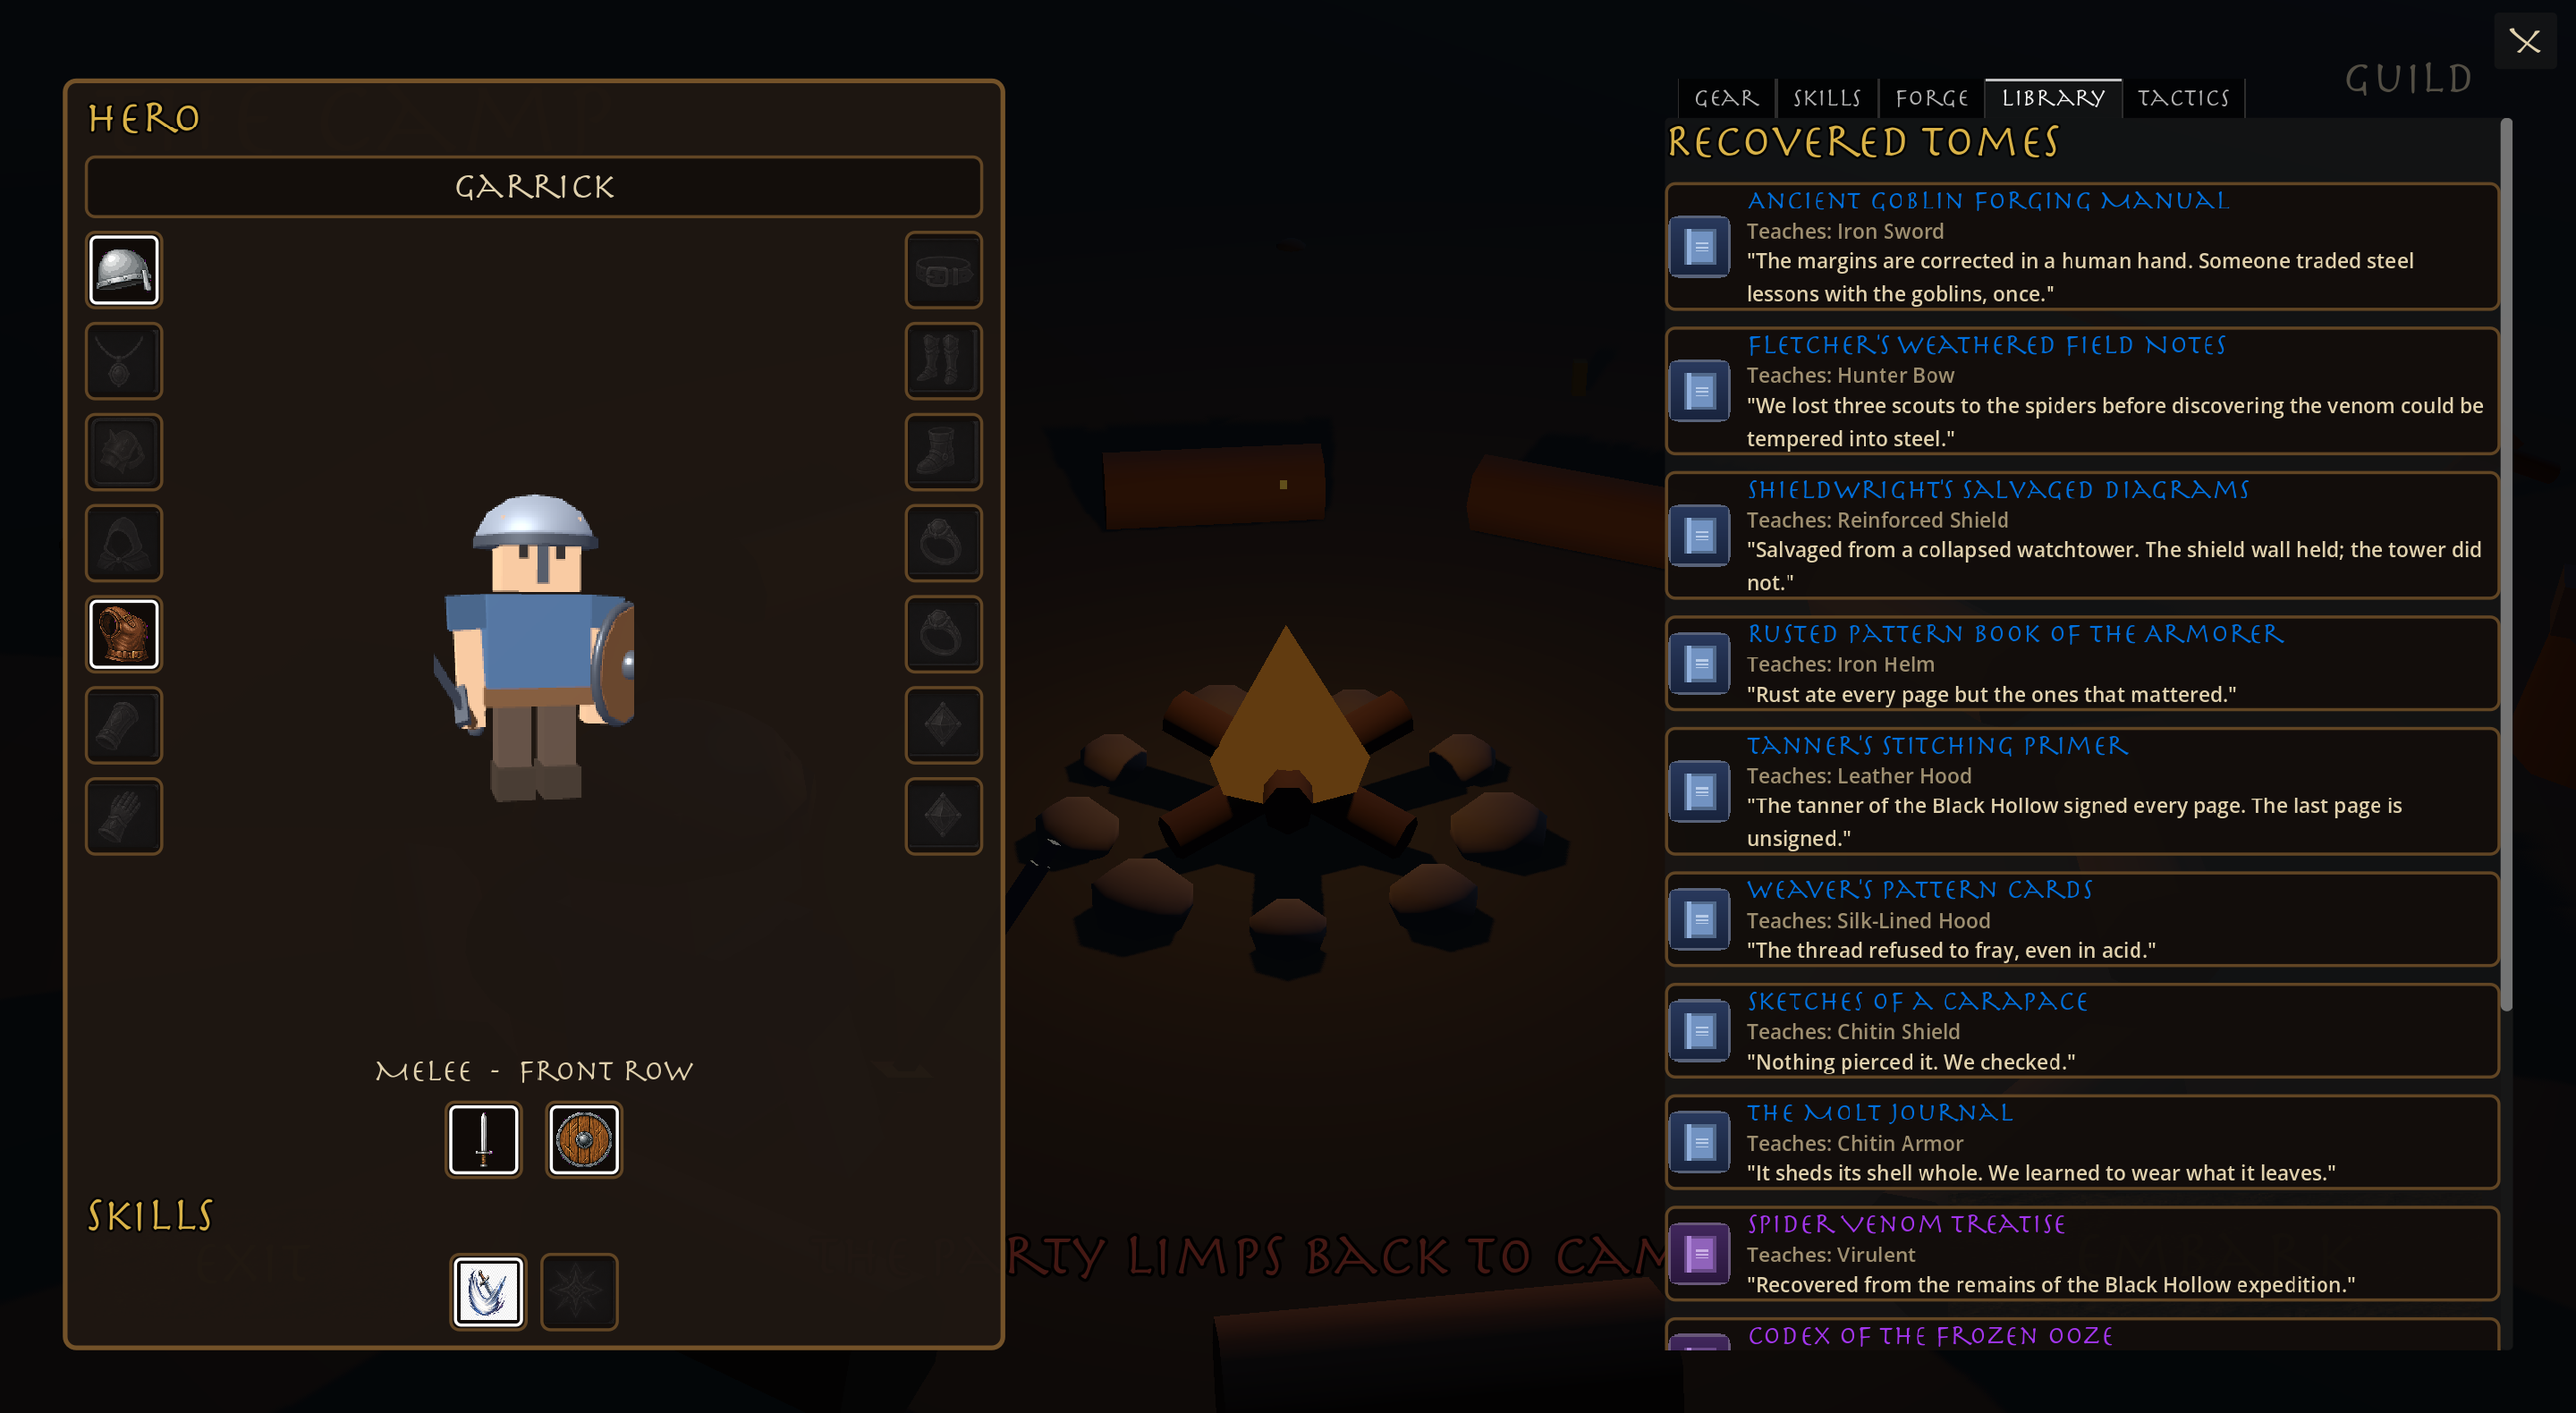
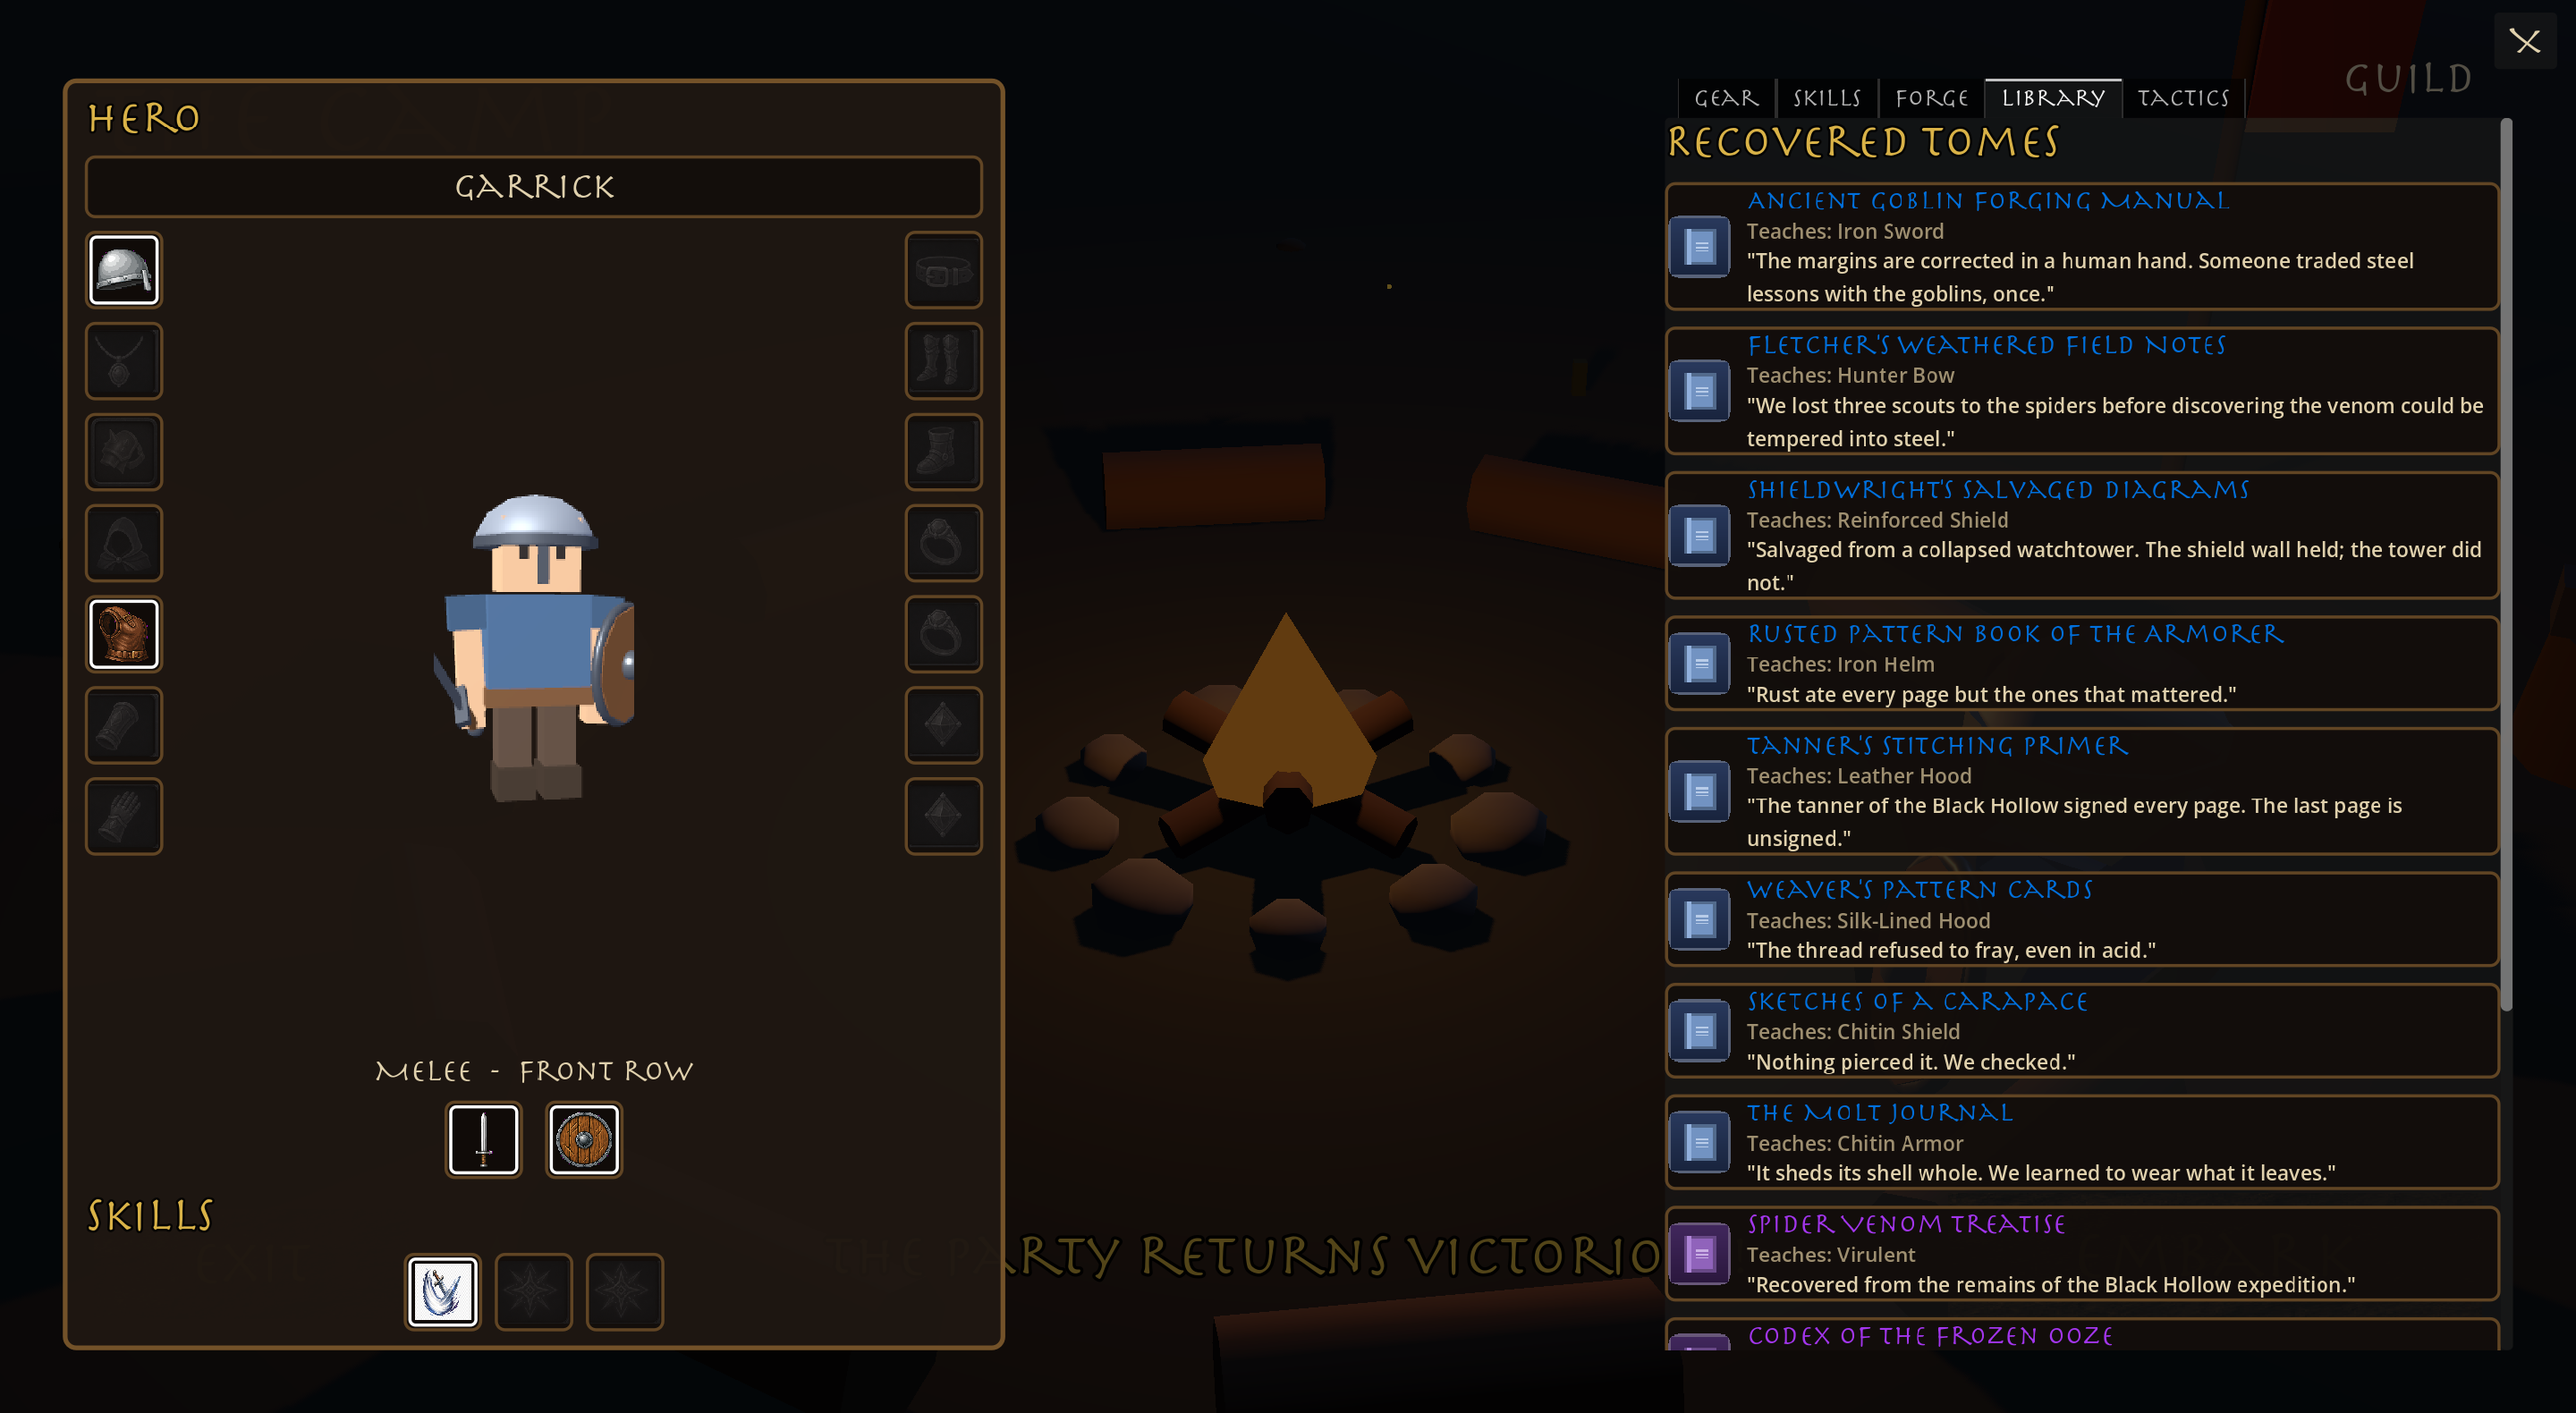
The Nest bites back; Renew and Whirlwind show themselves.
Playtest: a post-Darkwood duo with Virulent on both weapons one-shot
the Spider Nest. The nest now assumes what a player arriving there
actually has - a companion, an offensive affix, darkwood-tier gear:
enemies harder across the board (Broodmother 260/8/3), packs run one
body deeper (new per-dungeon pack_bonus), and the boss brings a
second spiderling. Clearing it should want nest recipes and the
Training Grounds slot.

The invisible skills were a real bug: the timeline patch for spin and
shockwave cues had silently missed (indentation mismatch), so
Whirlwind and Thunderclap played as plain swings. Fixed - and Renew
now shows its cast too: the healer raises hands and a soft green ring
blooms on the target (BUFF events carry their source now).

Forge overflow fixed: affix pickers size to their selection, Craft
buttons slim, material chips trim with ellipsis. Two tests stopped
depending on whatever save the machine carries.

diff --git a/CHANGELOG.md b/CHANGELOG.md
@@ -58,6 +58,10 @@ Notable changes per pull request. Newest first.
   rows with color-coded costs; the full bill with hunting grounds
   lives in the pinned selection tooltip.
 - Overlapping floating combat texts fan out into side lanes.
+- Renew visibly casts (healer raises hands, a soft green ring blooms
+  on the target); the Whirlwind spin and Thunderclap shockwave cues
+  actually fire (the timeline patch had silently missed); the Forge
+  no longer clips Craft buttons or the material shelf.
 - Nest loot band: item levels +10; rare unlocked from normals (4%);
   boss epic at 6%.
 
@@ -80,6 +84,11 @@ Notable changes per pull request. Newest first.
   regression test.
 
 ### Balanced
+- **The Spider Nest tuned for a real party** (playtest: post-Darkwood
+  duo with double Virulent one-shot it): nest enemies harder across
+  the board (Broodmother 260 HP / 8 attack / 3 armor), packs run one
+  body deeper, and the boss brings a second spiderling — clearing it
+  should now want nest-tier gear and the second skill slot.
 - Standing separation spread brawls out (packed warriors all reach
   the front line).
 - **Material flow rebalanced** (playtest: 92 iron vs 3 gel): every
